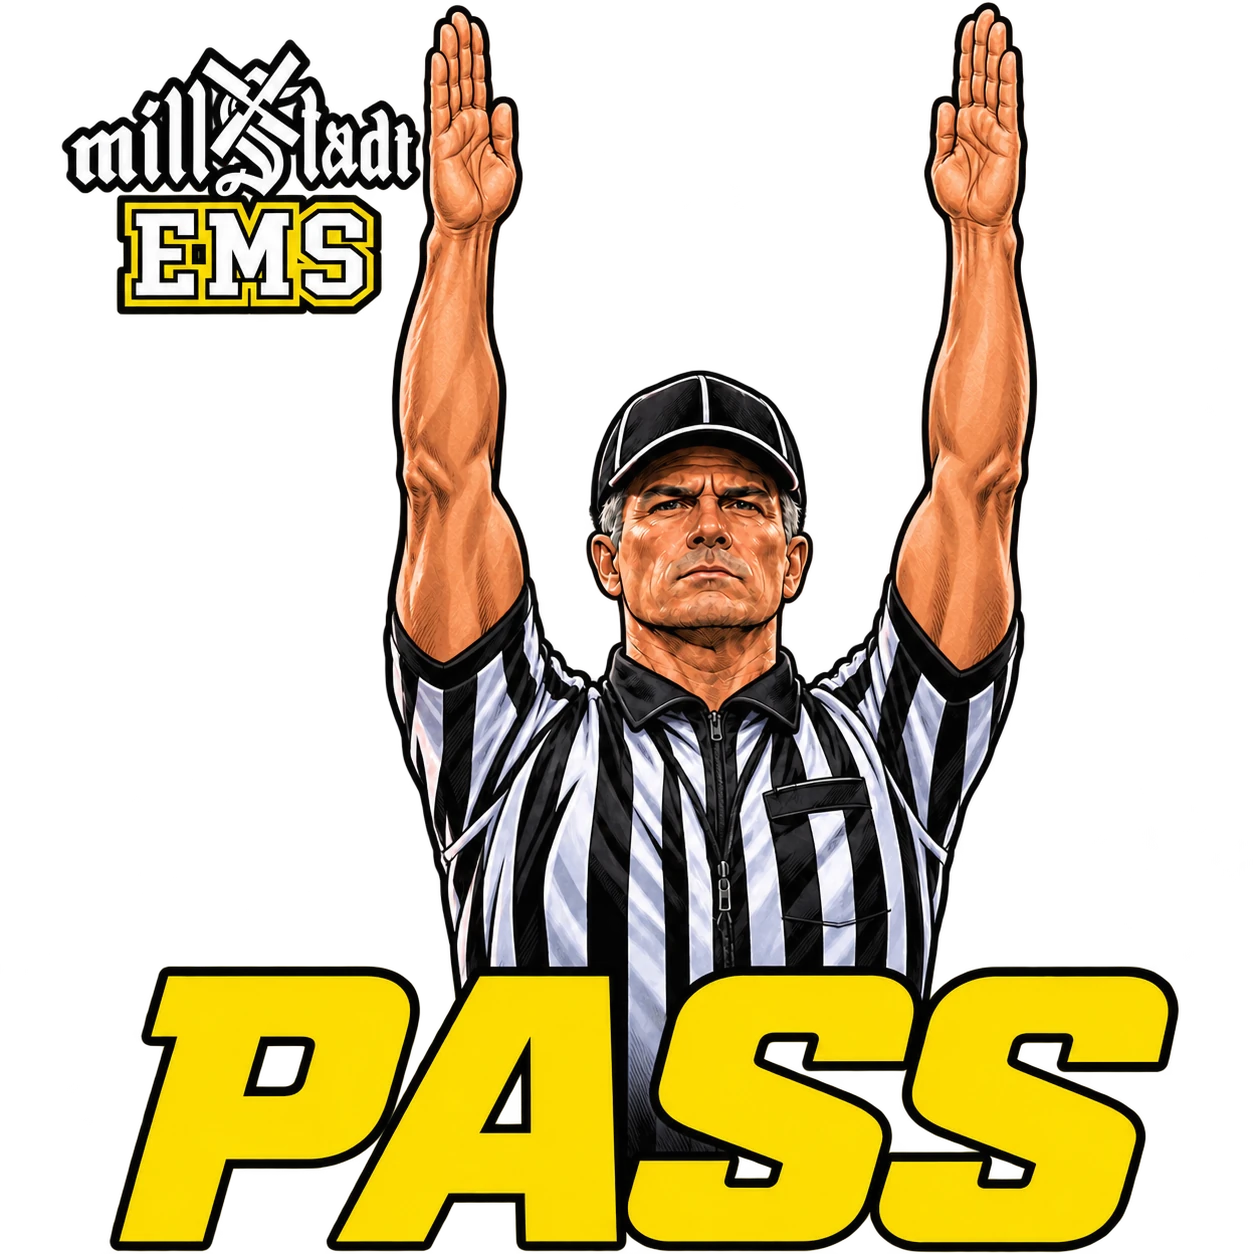
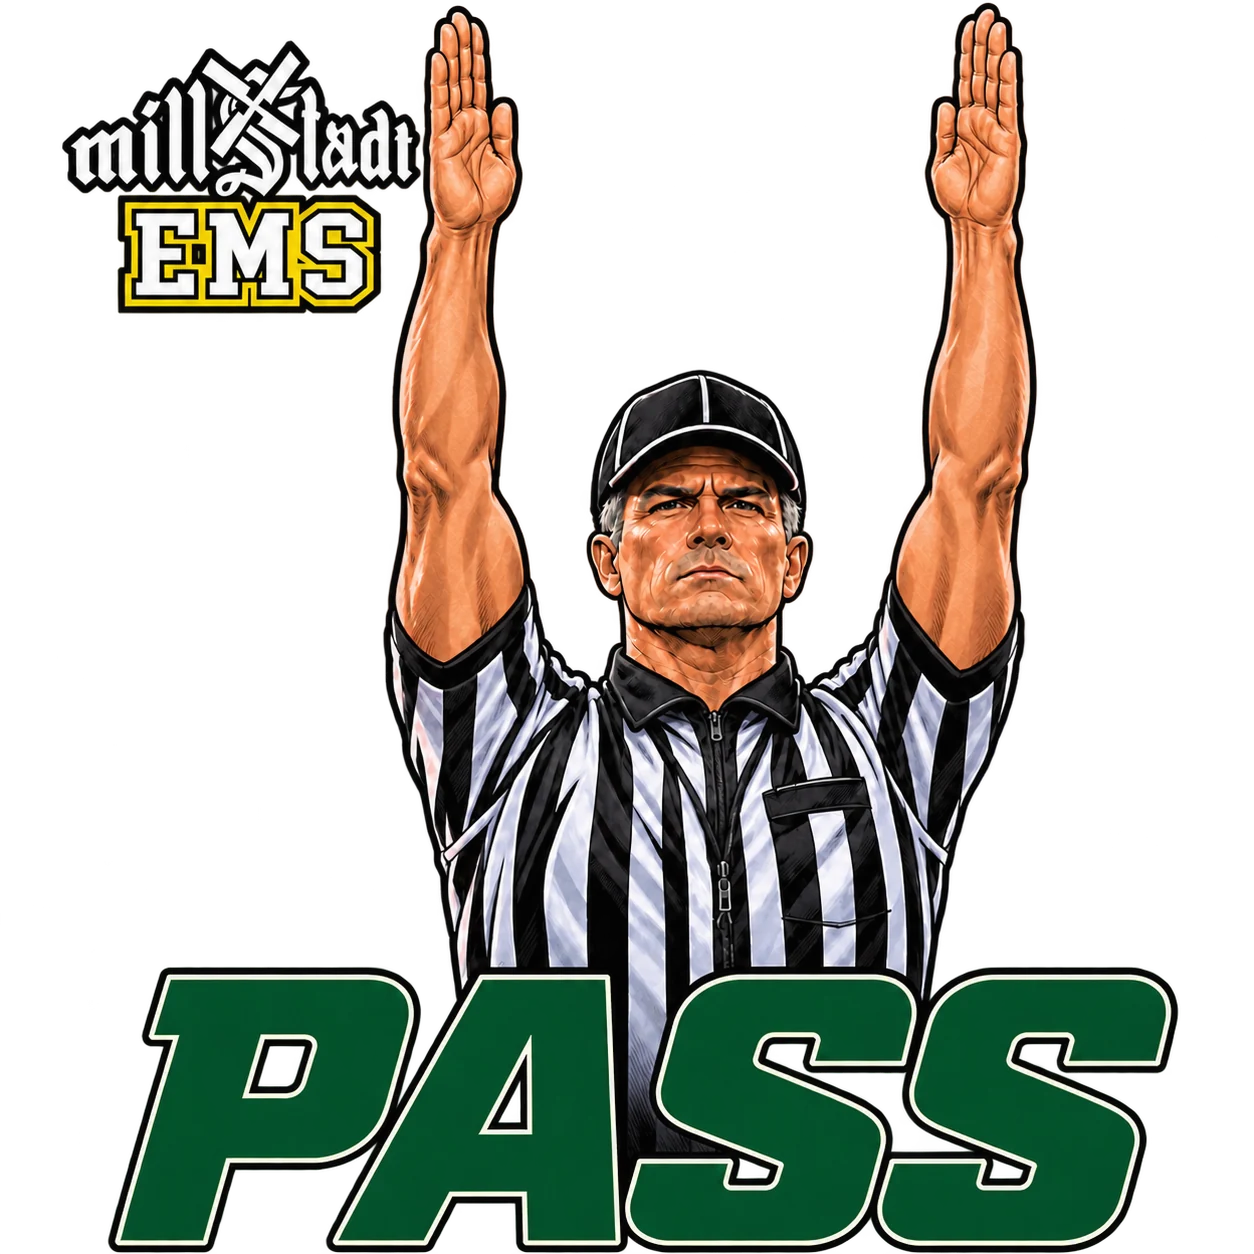
Show distinct referee artwork for certified ESD results and verify the clerk’s canvass

diff --git a/app/election-information/page.tsx b/app/election-information/page.tsx
@@ -4,6 +4,7 @@ import { connection } from "next/server";
 import { ArrowUpRight, CheckCheck, ChevronDown } from "lucide-react";
 import { getElectionReport } from "@/lib/election-results/report";
 import { sources, type VoteRow } from "@/lib/election-results/county";
+import { canvassIndex } from "@/lib/election-results/canvass";
 import RefreshResults from "./RefreshResults";
 import styles from "./Results.module.css";
 
@@ -58,7 +59,15 @@ export default async function ElectionResultsPage() {
   const margin = report.yes - report.no;
   const gap = Math.abs(margin);
   const lead = margin === 0 ? "tie" : margin > 0 ? "yes" : "no";
-  const saved = Date.now() - Date.parse(report.checkedAt) > 150_000;
+  const outcome = report.official ? lead : "pending";
+  const votes = (n: number) => n === 1 ? "1 vote" : format(n) + " votes";
+  const certification = {
+    pending: "These totals may change. Official results will be posted here after St. Clair County certifies the election.",
+    yes: "The referendum passed by " + votes(gap) + ".",
+    no: "The referendum did not pass. No received " + votes(report.no) + " and Yes received " + votes(report.yes) + ".",
+    tie: "The certified count is tied, with " + votes(report.yes) + " on each side.",
+  };
+  const canvassHref = report.certifiedPage ? report.canvassUrl + "#page=" + report.certifiedPage : report.canvassUrl;
   return <article className={styles.page} data-lead={lead}>
     <RefreshResults />
     <div className={styles.wrap}>
@@ -75,7 +84,7 @@ export default async function ElectionResultsPage() {
         </div>
         <div className={styles.score}>
           <div className={styles.scoreHead}>
-            <span className={styles.status}>{report.official ? "Official results" : "Unofficial results"}</span>
+            <span className={styles.status}>{report.official ? "Certified results" : "Unofficial results"}</span>
             <span>{format(total)} votes</span>
           </div>
           <div className={styles.numbers}>
@@ -83,25 +92,29 @@ export default async function ElectionResultsPage() {
             <div><span><i />No</span><strong>{format(report.no)}</strong><small>{percent(report.no)}</small></div>
           </div>
           <div className={styles.bar} aria-hidden="true"><span style={{ width: total ? percent(report.yes) : "0%" }} /></div>
-          <p className={styles.gap}>{gap ? <><strong>{format(gap)}-vote difference</strong> <span>· {lead === "yes" ? "Yes" : "No"} ahead</span></> : <strong>{total ? "Tied vote" : "Awaiting votes"}</strong>}</p>
-          <p className={styles.reporting}>{report.reporting}</p>
+          <p className={styles.gap}>{gap ? <><strong>{format(gap)}-vote difference</strong> <span>· {lead === "yes" ? "Yes" : "No"} {report.official ? "majority" : "ahead"}</span></> : <strong>{total ? "Tied vote" : report.official ? "No votes recorded" : "Awaiting votes"}</strong>}</p>
+          <p className={styles.reporting}>{report.certifiedPage ? "Source: St. Clair County Clerk’s official canvass" : report.reporting}</p>
         </div>
-        <ElectionNightIllustration passed={report.official && report.yes > report.no} />
+        <ElectionNightIllustration outcome={outcome} />
       </section>
       <aside className={styles.cert}>
         <CheckCheck size={24} aria-hidden="true" />
-        <div><h2>{report.official ? "Official county results" : "Awaiting certification"}</h2>
-          <p>{report.official ? "St. Clair County now lists these results as official." : "These totals may change. Official results will be posted here after St. Clair County certifies the election."}</p>
+        <div><h2>{report.official ? "Results certified by St. Clair County" : report.canvassUrl ? "County canvass available" : "Awaiting certification"}</h2>
+          <p>{outcome === "pending" && report.canvassUrl
+            ? "The clerk has posted a canvass. Refer to the county document while this referendum’s certified count is being verified."
+            : certification[outcome]}</p>
         </div>
-        <CountyLink href="https://www.co.st-clair.il.us/departments/county-clerk/elections/previous-election-results">County canvass records</CountyLink>
+        <CountyLink href={canvassHref ?? canvassIndex}>{canvassHref ? "View county canvass" : "County canvass records"}</CountyLink>
       </aside>
       <section className={styles.breakdowns} aria-labelledby="details-heading">
         <div className={styles.sectionIntro}>
           <p className={styles.kicker}><span className={styles.dash} /> County returns</p>
           <h2 id="details-heading">Inside the count</h2>
-          <p>Explore the votes by precinct, township, or voting type. Each view breaks down the same {format(total)} votes.</p>
+          <p>{report.detailNote
+            ? report.detailNote + " They cover " + votes(report.detailTotal) + ". The certified count above comes from the clerk’s canvass."
+            : "Explore the votes by precinct, township, or voting type. Each view breaks down the same " + votes(report.detailTotal) + "."}</p>
           <div className={styles.sourceBlock}>
-            <p><strong>{saved ? "Last verified county figures" : "As of"}</strong><br />
+            <p><strong>{report.saved ? "Last verified county figures" : "As of"}</strong><br />
               <time dateTime={report.checkedAt}>{checkedTime.format(new Date(report.checkedAt))}</time></p>
             <CountyLink href={countySummary}>St. Clair County results</CountyLink>
           </div>

diff --git a/lib/election-results/canvass.ts b/lib/election-results/canvass.ts
@@ -1,0 +1,81 @@
+import { parse } from "next/dist/compiled/node-html-parser";
+
+export const canvassIndex = "https://www.co.st-clair.il.us/departments/county-clerk/elections/previous-election-results";
+const electionDate = /\bNovember 0?3, 2026\b/i;
+const voteCount = /^(?:\d+|\d{1,3}(?:,\d{3})+)$/;
+
+export function findCanvass(html: string) {
+  const links = new Set<string>();
+  for (const link of parse(html).querySelectorAll("a.DocumentContainerLink")) {
+    const title = link.querySelector(".DocumentItemTitle")?.text ?? "";
+    if (!/\b2026\b/.test(title) || !/\bgeneral\b/i.test(title) || !/\bcanvass\b/i.test(title) ||
+        /\b(primary|unofficial|draft|sample|partial|preliminary)\b/i.test(title)) continue;
+    const href = link.getAttribute("href");
+    if (!href) continue;
+    const url = new URL(href, canvassIndex);
+    if (url.origin !== new URL(canvassIndex).origin || !url.pathname.toLowerCase().endsWith(".pdf")) continue;
+    url.search = ""; // The clerk appends the current time to document links.
+    url.hash = "";
+    links.add(url.href);
+  }
+  return links.size === 1 ? [...links][0] : null;
+}
+
+// Read only the clerk's official cover and the county-total row for this ballot
+// question. A different contest can include "Millstadt" among its precincts.
+export async function readCanvassTotals(data: Uint8Array) {
+  const { getDocument } = await import("pdfjs-dist/legacy/build/pdf.mjs");
+  // Load the worker explicitly so the deployed server also includes it.
+  await import("pdfjs-dist/legacy/build/pdf.worker.mjs");
+  const doc = await getDocument({ data, isEvalSupported: false, useSystemFonts: true }).promise;
+  async function words(n: number) {
+    const page = await doc.getPage(n);
+    const content = await page.getTextContent();
+    page.cleanup();
+    return content.items.flatMap(item => "str" in item && item.str.trim() ? [item.str.trim()] : []);
+  }
+  try {
+    if (doc.numPages > 1000) return null;
+    const cover = (await words(1)).join(" ");
+    if (!electionDate.test(cover) || !/\bGeneral Election\b/i.test(cover) ||
+        !/\bOfficial Canvass\b/i.test(cover) || !/St\. Clair County, Illinois/i.test(cover) ||
+        /\b(unofficial|draft|sample|preliminary)\b/i.test(cover)) return null;
+    let result: { yes: number; no: number; page: number } | null = null;
+    for (let n = 2; n <= doc.numPages; n++) {
+      const cells = await words(n);
+      const start = cells.indexOf("REGISTERED");
+      if (start < 0) continue;
+      const heading = cells.slice(0, start).join(" ");
+      if (!electionDate.test(heading) || !/\bGeneral Election\b/i.test(heading)) continue;
+      const isQuestion = /\borganized as Millstadt EMS ESD\b/i.test(heading) ||
+        (/\bProposed Millstadt Fire\b/i.test(heading) && /territory described as currently comprising the Millstadt Fire Protection District/i.test(heading));
+      if (!isQuestion) continue;
+      const cols = cells.slice(start, start + 7).join(" ");
+      if (cols !== "REGISTERED VOTERS BALLOTS CAST TURNOUT YES NO") return null;
+      const total = cells.lastIndexOf("ST. CLAIR COUNTY,");
+      if (total < 0) continue;
+      const [state, registered, ballots, turnout, yes, no, ...extra] = cells.slice(total + 1);
+      if (result || state !== "ILLINOIS" || ![registered, ballots, yes, no].every(x => voteCount.test(x)) ||
+          !/^\d+(?:\.\d+)?%$/.test(turnout) || extra.length) return null;
+      result = { yes: Number(yes.replaceAll(",", "")), no: Number(no.replaceAll(",", "")), page: n };
+      if (!Number.isSafeInteger(result.yes + result.no)) return null;
+    }
+    return result;
+  } finally {
+    await doc.destroy();
+  }
+}
+
+export async function readClerkCanvass() {
+  const options = { cache: "no-store", redirect: "error", signal: AbortSignal.timeout(8000) } as const;
+  const index = await fetch(canvassIndex, options);
+  if (!index.ok) throw new Error("County canvass index unavailable");
+  const url = findCanvass(await index.text());
+  if (!url) return null;
+  const response = await fetch(url, { ...options, signal: AbortSignal.timeout(15000) });
+  if (!response.ok) throw new Error("County canvass unavailable");
+  const data = new Uint8Array(await response.arrayBuffer());
+  // Keep the clerk’s direct link available for a scanned or unreadable document.
+  const totals = data.byteLength <= 20_000_000 ? await readCanvassTotals(data).catch(() => null) : null;
+  return { url, totals };
+}

diff --git a/app/election-information/ElectionNightIllustration.tsx b/app/election-information/ElectionNightIllustration.tsx
@@ -1,23 +1,45 @@
 import Image from "next/image";
+import pendingArt from "@/public/images/election-results/referee-cutout.webp";
+import passArt from "@/public/images/election-results/referee-pass.webp";
+import failArt from "@/public/images/election-results/referee-fail.webp";
 import styles from "./Results.module.css";
 
-export default function ElectionNightIllustration({ passed }: { passed: boolean }) {
-  return (
-    <figure className={styles.illustration}>
-      <Image
-        src={passed ? "/images/election-results/referee-pass.webp" : "/images/election-results/referee-cutout.webp"}
-        alt={passed
-          ? "Millstadt EMS referendum passed. The referee raises both arms for a touchdown above the word “Pass.”"
-          : "Millstadt EMS election-night artwork. A referee crosses his arms above the words “Too close to call.”"}
-        width={1254}
-        height={1254}
-        sizes="(max-width: 599px) 230px, (max-width: 979px) 260px, 410px"
-        className={styles.referee}
-        loading="eager"
-      />
-      <figcaption className={styles.artDate}>
-        {passed ? "Official result · Referendum passed" : "Election night · Nov. 3, 2026"}
-      </figcaption>
-    </figure>
-  );
+const illustrations = {
+  pending: {
+    image: pendingArt,
+    alt: "Referee with crossed arms above the words “Too close to call.”",
+    caption: "Election night · Nov. 3, 2026",
+  },
+  yes: {
+    image: passArt,
+    alt: "Referee signaling a touchdown above the word “PASS.”",
+    caption: "Certified result · Referendum passed",
+  },
+  no: {
+    image: failArt,
+    alt: "Referee signaling a missed field goal above the word “FAIL.”",
+    caption: "Certified result · Referendum did not pass",
+  },
+};
+
+export default function ElectionNightIllustration({ outcome }: { outcome: keyof typeof illustrations | "tie" }) {
+  if (outcome === "tie") {
+    return <figure className={styles.illustration}>
+      <strong className={styles.tieMark}>TIE</strong>
+      <figcaption className={styles.artDate}>Certified result · Equal Yes and No votes</figcaption>
+    </figure>;
+  }
+  const { image, alt, caption } = illustrations[outcome];
+  return <figure className={styles.illustration}>
+    <Image
+      src={image}
+      alt={alt}
+      sizes={outcome === "no"
+        ? "(max-width: 599px) 90vw, (max-width: 979px) 40vw, 500px"
+        : "(max-width: 599px) 230px, (max-width: 979px) 260px, 410px"}
+      className={outcome === "no" ? styles.wideReferee : styles.referee}
+      loading="eager"
+    />
+    <figcaption className={styles.artDate}>{caption}</figcaption>
+  </figure>;
 }

diff --git a/lib/election-results/report.ts b/lib/election-results/report.ts
@@ -1,16 +1,30 @@
 import "server-only";
 import { unstable_cache } from "next/cache";
+import { readClerkCanvass } from "./canvass";
 import { readCountyResults } from "./county";
 import snapshot from "./snapshot.json";
 
-// Cache a reconciled set of reports together. If a county update is in progress,
-// a failed revalidation keeps the previous successful read and its timestamp.
+// Keep reconciled online returns together, including the time they were checked.
 const cachedReport = unstable_cache(readCountyResults, ["st-clair-2026-general-esd-350-v1"], { revalidate: 45 });
+const cachedCanvass = unstable_cache(readClerkCanvass, ["st-clair-2026-general-esd-canvass-v1"], { revalidate: 900 });
 
 export async function getElectionReport() {
-  try {
-    return await cachedReport();
-  } catch {
-    return snapshot;
-  }
+  const [returns, canvass] = await Promise.all([
+    cachedReport().catch(() => snapshot),
+    cachedCanvass().catch(() => null),
+  ]);
+  const certified = canvass?.totals;
+  return {
+    ...returns,
+    yes: certified?.yes ?? returns.yes,
+    no: certified?.no ?? returns.no,
+    official: Boolean(certified) || returns.official,
+    canvassUrl: canvass?.url,
+    certifiedPage: certified?.page,
+    detailTotal: returns.yes + returns.no,
+    detailNote: certified && (!returns.official || returns.yes !== certified.yes || returns.no !== certified.no)
+      ? (returns.official ? "These breakdowns come from the county’s online report." : "The county still labels these online breakdowns unofficial.")
+      : null,
+    saved: Date.now() - Date.parse(returns.checkedAt) > 150_000,
+  };
 }

diff --git a/app/election-information/Results.module.css b/app/election-information/Results.module.css
@@ -45,6 +45,8 @@
 .reporting { margin: 1px 0 0; font-size: 13px; line-height: 1.5; }
 .illustration { grid-area: art; margin: 0; min-width: 0; display: grid; justify-items: center; align-content: center; }
 .referee { display: block; width: min(100%, 410px); height: auto; }
+.wideReferee { display: block; width: min(100%, 500px); height: auto; }
+.tieMark { color: #594719; font-size: clamp(64px, 9vw, 128px); line-height: 1; font-weight: 850; letter-spacing: -.06em; }
 .artDate { margin-top: 10px; color: var(--muted); font-size: 10px; }
 .cert { display: flex; gap: 14px; align-items: center; padding: 18px 22px; border-left: 4px solid #a77c04; background: #ece7ce; }
 .cert > svg { flex: 0 0 auto; color: #685113; }

diff --git a/lib/election-results/parser.d.ts b/lib/election-results/parser.d.ts
@@ -3,9 +3,12 @@ declare module "next/dist/compiled/node-html-parser" {
   interface HTMLElement {
     readonly text: string;
     readonly previousElementSibling: HTMLElement | null;
+    getAttribute(name: string): string | undefined;
     closest(selector: string): HTMLElement | null;
     querySelector(selector: string): HTMLElement | null;
     querySelectorAll(selector: string): HTMLElement[];
   }
   function parse(html: string): HTMLElement;
 }
+
+declare module "pdfjs-dist/legacy/build/pdf.worker.mjs";
